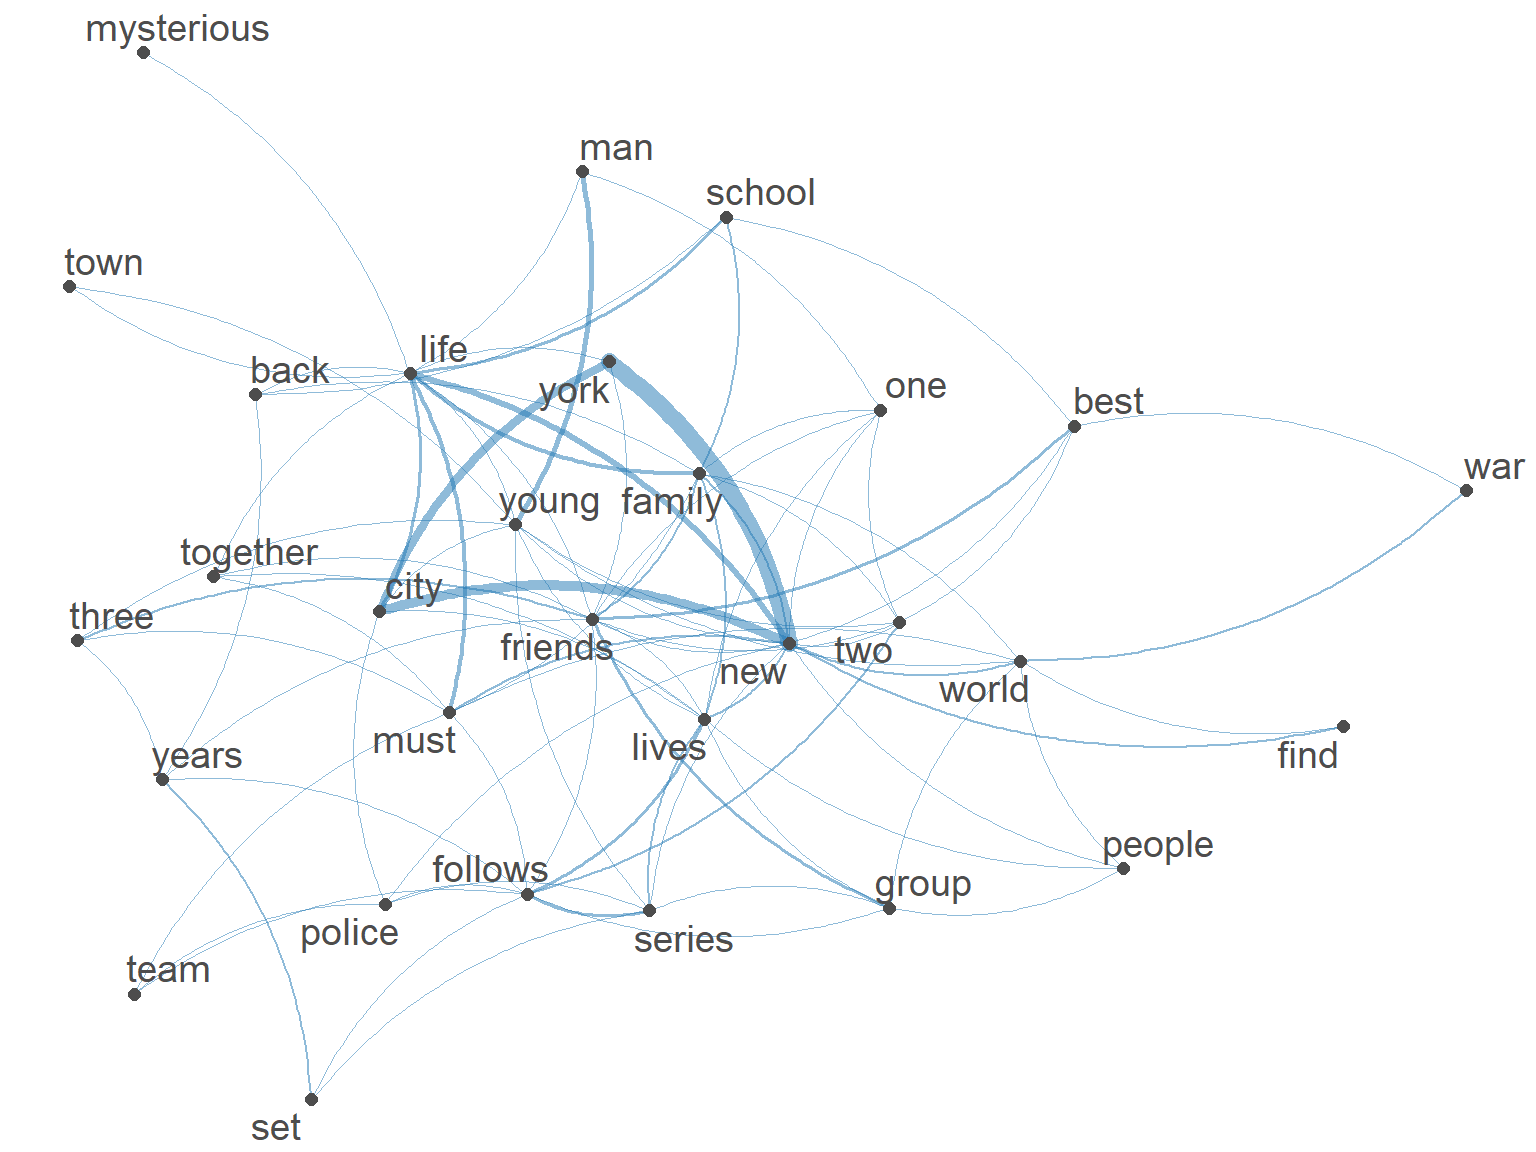
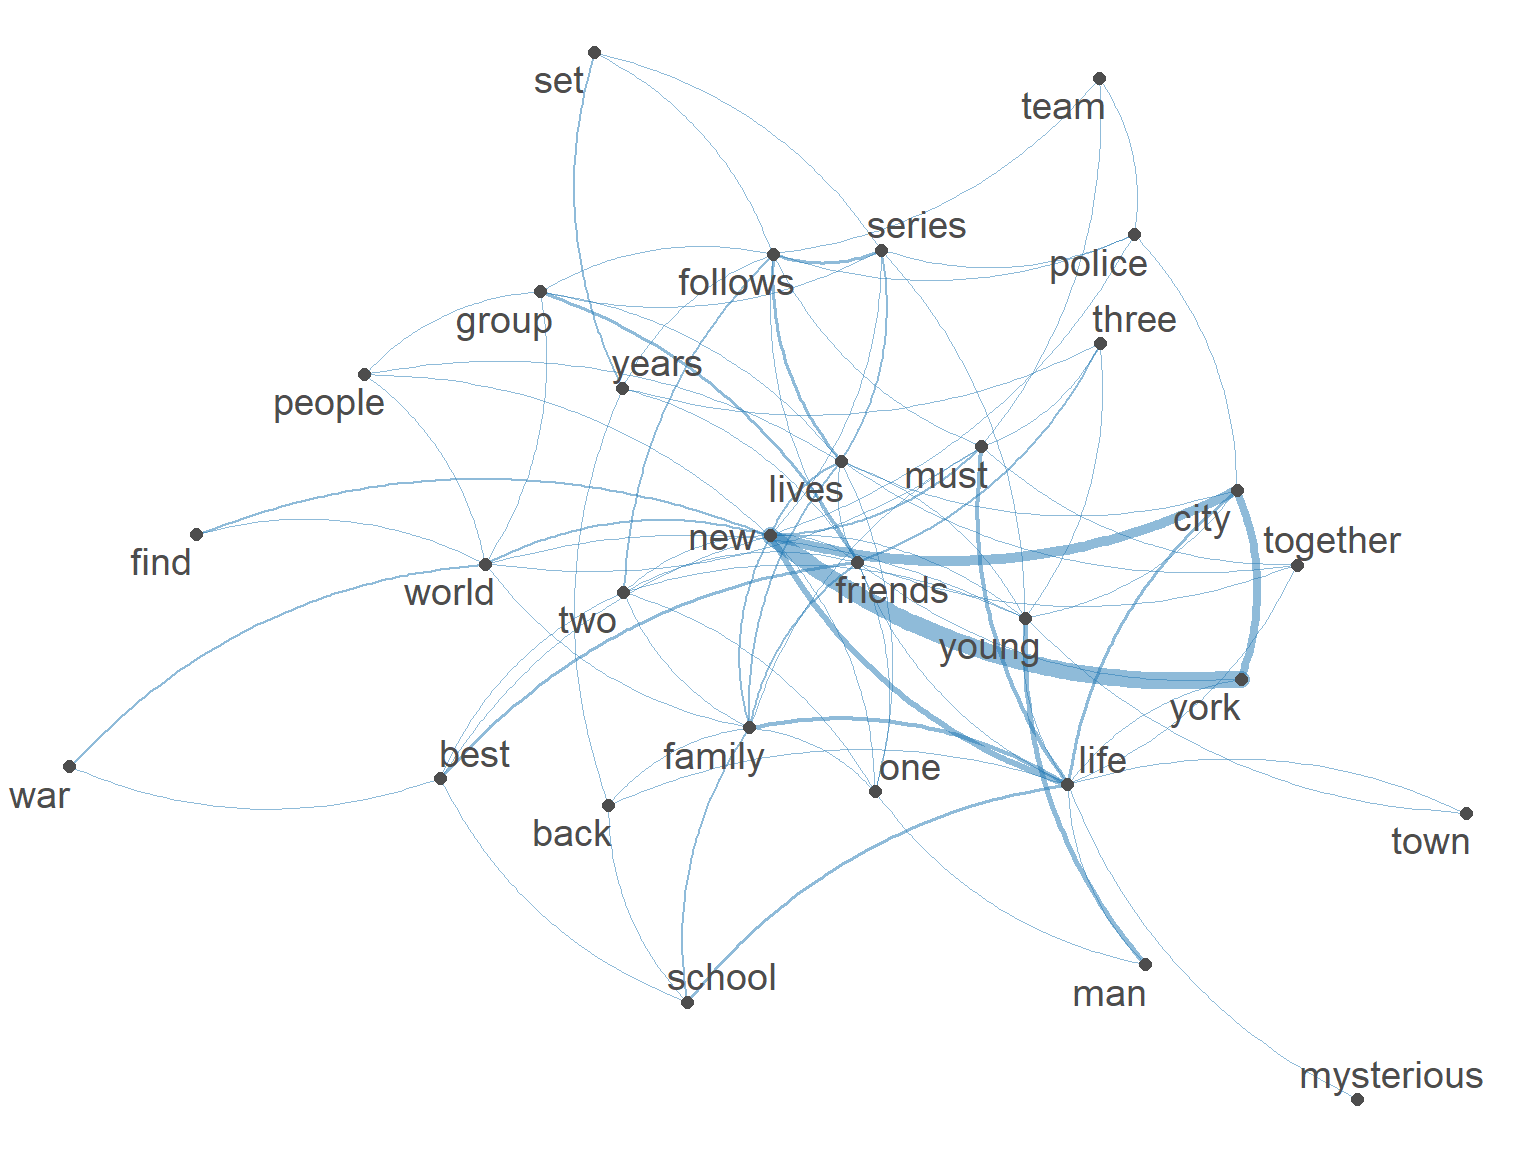
update for PDF rendering

diff --git a/docs/81-glossary.html b/docs/81-glossary.html
@@ -231,23 +231,23 @@ ul.task-list li input[type="checkbox"] {
 
 </header><div class="cell">
 <div class="cell-output-display">
-<div id="zssonuamja" style="padding-left:0px;padding-right:0px;padding-top:10px;padding-bottom:10px;overflow-x:auto;overflow-y:auto;width:auto;height:auto;">
-<style>#zssonuamja table {
+<div id="cuhigvmudm" style="padding-left:0px;padding-right:0px;padding-top:10px;padding-bottom:10px;overflow-x:auto;overflow-y:auto;width:auto;height:auto;">
+<style>#cuhigvmudm table {
   font-family: system-ui, 'Segoe UI', Roboto, Helvetica, Arial, sans-serif, 'Apple Color Emoji', 'Segoe UI Emoji', 'Segoe UI Symbol', 'Noto Color Emoji';
   -webkit-font-smoothing: antialiased;
   -moz-osx-font-smoothing: grayscale;
 }
 
-#zssonuamja thead, #zssonuamja tbody, #zssonuamja tfoot, #zssonuamja tr, #zssonuamja td, #zssonuamja th {
+#cuhigvmudm thead, #cuhigvmudm tbody, #cuhigvmudm tfoot, #cuhigvmudm tr, #cuhigvmudm td, #cuhigvmudm th {
   border-style: none;
 }
 
-#zssonuamja p {
+#cuhigvmudm p {
   margin: 0;
   padding: 0;
 }
 
-#zssonuamja .gt_table {
+#cuhigvmudm .gt_table {
   display: table;
   border-collapse: collapse;
   line-height: normal;
@@ -273,12 +273,12 @@ ul.task-list li input[type="checkbox"] {
   border-left-color: #D3D3D3;
 }
 
-#zssonuamja .gt_caption {
+#cuhigvmudm .gt_caption {
   padding-top: 4px;
   padding-bottom: 4px;
 }
 
-#zssonuamja .gt_title {
+#cuhigvmudm .gt_title {
   color: #333333;
   font-size: 125%;
   font-weight: initial;
@@ -290,7 +290,7 @@ ul.task-list li input[type="checkbox"] {
   border-bottom-width: 0;
 }
 
-#zssonuamja .gt_subtitle {
+#cuhigvmudm .gt_subtitle {
   color: #333333;
   font-size: 85%;
   font-weight: initial;
@@ -302,7 +302,7 @@ ul.task-list li input[type="checkbox"] {
   border-top-width: 0;
 }
 
-#zssonuamja .gt_heading {
+#cuhigvmudm .gt_heading {
   background-color: #FFFFFF;
   text-align: center;
   border-bottom-color: #FFFFFF;
@@ -314,13 +314,13 @@ ul.task-list li input[type="checkbox"] {
   border-right-color: #D3D3D3;
 }
 
-#zssonuamja .gt_bottom_border {
+#cuhigvmudm .gt_bottom_border {
   border-bottom-style: solid;
   border-bottom-width: 2px;
   border-bottom-color: #D3D3D3;
 }
 
-#zssonuamja .gt_col_headings {
+#cuhigvmudm .gt_col_headings {
   border-top-style: solid;
   border-top-width: 2px;
   border-top-color: #D3D3D3;
@@ -335,7 +335,7 @@ ul.task-list li input[type="checkbox"] {
   border-right-color: #D3D3D3;
 }
 
-#zssonuamja .gt_col_heading {
+#cuhigvmudm .gt_col_heading {
   color: #333333;
   background-color: #FFFFFF;
   font-size: 100%;
@@ -355,7 +355,7 @@ ul.task-list li input[type="checkbox"] {
   overflow-x: hidden;
 }
 
-#zssonuamja .gt_column_spanner_outer {
+#cuhigvmudm .gt_column_spanner_outer {
   color: #333333;
   background-color: #FFFFFF;
   font-size: 100%;
@@ -367,15 +367,15 @@ ul.task-list li input[type="checkbox"] {
   padding-right: 4px;
 }
 
-#zssonuamja .gt_column_spanner_outer:first-child {
+#cuhigvmudm .gt_column_spanner_outer:first-child {
   padding-left: 0;
 }
 
-#zssonuamja .gt_column_spanner_outer:last-child {
+#cuhigvmudm .gt_column_spanner_outer:last-child {
   padding-right: 0;
 }
 
-#zssonuamja .gt_column_spanner {
+#cuhigvmudm .gt_column_spanner {
   border-bottom-style: solid;
   border-bottom-width: 2px;
   border-bottom-color: #D3D3D3;
@@ -387,11 +387,11 @@ ul.task-list li input[type="checkbox"] {
   width: 100%;
 }
 
-#zssonuamja .gt_spanner_row {
+#cuhigvmudm .gt_spanner_row {
   border-bottom-style: hidden;
 }
 
-#zssonuamja .gt_group_heading {
+#cuhigvmudm .gt_group_heading {
   padding-top: 8px;
   padding-bottom: 8px;
   padding-left: 5px;
@@ -417,7 +417,7 @@ ul.task-list li input[type="checkbox"] {
   text-align: left;
 }
 
-#zssonuamja .gt_empty_group_heading {
+#cuhigvmudm .gt_empty_group_heading {
   padding: 0.5px;
   color: #333333;
   background-color: #FFFFFF;
@@ -432,15 +432,15 @@ ul.task-list li input[type="checkbox"] {
   vertical-align: middle;
 }
 
-#zssonuamja .gt_from_md > :first-child {
+#cuhigvmudm .gt_from_md > :first-child {
   margin-top: 0;
 }
 
-#zssonuamja .gt_from_md > :last-child {
+#cuhigvmudm .gt_from_md > :last-child {
   margin-bottom: 0;
 }
 
-#zssonuamja .gt_row {
+#cuhigvmudm .gt_row {
   padding-top: 8px;
   padding-bottom: 8px;
   padding-left: 5px;
@@ -459,7 +459,7 @@ ul.task-list li input[type="checkbox"] {
   overflow-x: hidden;
 }
 
-#zssonuamja .gt_stub {
+#cuhigvmudm .gt_stub {
   color: #333333;
   background-color: #FFFFFF;
   font-size: 100%;
@@ -472,7 +472,7 @@ ul.task-list li input[type="checkbox"] {
   padding-right: 5px;
 }
 
-#zssonuamja .gt_stub_row_group {
+#cuhigvmudm .gt_stub_row_group {
   color: #333333;
   background-color: #FFFFFF;
   font-size: 100%;
@@ -486,15 +486,15 @@ ul.task-list li input[type="checkbox"] {
   vertical-align: top;
 }
 
-#zssonuamja .gt_row_group_first td {
+#cuhigvmudm .gt_row_group_first td {
   border-top-width: 2px;
 }
 
-#zssonuamja .gt_row_group_first th {
+#cuhigvmudm .gt_row_group_first th {
   border-top-width: 2px;
 }
 
-#zssonuamja .gt_summary_row {
+#cuhigvmudm .gt_summary_row {
   color: #333333;
   background-color: #FFFFFF;
   text-transform: inherit;
@@ -504,16 +504,16 @@ ul.task-list li input[type="checkbox"] {
   padding-right: 5px;
 }
 
-#zssonuamja .gt_first_summary_row {
+#cuhigvmudm .gt_first_summary_row {
   border-top-style: solid;
   border-top-color: #D3D3D3;
 }
 
-#zssonuamja .gt_first_summary_row.thick {
+#cuhigvmudm .gt_first_summary_row.thick {
   border-top-width: 2px;
 }
 
-#zssonuamja .gt_last_summary_row {
+#cuhigvmudm .gt_last_summary_row {
   padding-top: 8px;
   padding-bottom: 8px;
   padding-left: 5px;
@@ -523,7 +523,7 @@ ul.task-list li input[type="checkbox"] {
   border-bottom-color: #D3D3D3;
 }
 
-#zssonuamja .gt_grand_summary_row {
+#cuhigvmudm .gt_grand_summary_row {
   color: #333333;
   background-color: #FFFFFF;
   text-transform: inherit;
@@ -533,7 +533,7 @@ ul.task-list li input[type="checkbox"] {
   padding-right: 5px;
 }
 
-#zssonuamja .gt_first_grand_summary_row {
+#cuhigvmudm .gt_first_grand_summary_row {
   padding-top: 8px;
   padding-bottom: 8px;
   padding-left: 5px;
@@ -543,7 +543,7 @@ ul.task-list li input[type="checkbox"] {
   border-top-color: #D3D3D3;
 }
 
-#zssonuamja .gt_last_grand_summary_row_top {
+#cuhigvmudm .gt_last_grand_summary_row_top {
   padding-top: 8px;
   padding-bottom: 8px;
   padding-left: 5px;
@@ -553,11 +553,11 @@ ul.task-list li input[type="checkbox"] {
   border-bottom-color: #D3D3D3;
 }
 
-#zssonuamja .gt_striped {
+#cuhigvmudm .gt_striped {
   background-color: rgba(128, 128, 128, 0.05);
 }
 
-#zssonuamja .gt_table_body {
+#cuhigvmudm .gt_table_body {
   border-top-style: solid;
   border-top-width: 1px;
   border-top-color: #E6E6E6;
@@ -566,7 +566,7 @@ ul.task-list li input[type="checkbox"] {
   border-bottom-color: #D3D3D3;
 }
 
-#zssonuamja .gt_footnotes {
+#cuhigvmudm .gt_footnotes {
   color: #333333;
   background-color: #FFFFFF;
   border-bottom-style: none;
@@ -580,7 +580,7 @@ ul.task-list li input[type="checkbox"] {
   border-right-color: #D3D3D3;
 }
 
-#zssonuamja .gt_footnote {
+#cuhigvmudm .gt_footnote {
   margin: 0px;
   font-size: 90%;
   padding-top: 4px;
@@ -589,7 +589,7 @@ ul.task-list li input[type="checkbox"] {
   padding-right: 5px;
 }
 
-#zssonuamja .gt_sourcenotes {
+#cuhigvmudm .gt_sourcenotes {
   color: #333333;
   background-color: #FFFFFF;
   border-bottom-style: none;
@@ -603,7 +603,7 @@ ul.task-list li input[type="checkbox"] {
   border-right-color: #D3D3D3;
 }
 
-#zssonuamja .gt_sourcenote {
+#cuhigvmudm .gt_sourcenote {
   font-size: 90%;
   padding-top: 4px;
   padding-bottom: 4px;
@@ -611,72 +611,72 @@ ul.task-list li input[type="checkbox"] {
   padding-right: 5px;
 }
 
-#zssonuamja .gt_left {
+#cuhigvmudm .gt_left {
   text-align: left;
 }
 
-#zssonuamja .gt_center {
+#cuhigvmudm .gt_center {
   text-align: center;
 }
 
-#zssonuamja .gt_right {
+#cuhigvmudm .gt_right {
   text-align: right;
   font-variant-numeric: tabular-nums;
 }
 
-#zssonuamja .gt_font_normal {
+#cuhigvmudm .gt_font_normal {
   font-weight: normal;
 }
 
-#zssonuamja .gt_font_bold {
+#cuhigvmudm .gt_font_bold {
   font-weight: bold;
 }
 
-#zssonuamja .gt_font_italic {
+#cuhigvmudm .gt_font_italic {
   font-style: italic;
 }
 
-#zssonuamja .gt_super {
+#cuhigvmudm .gt_super {
   font-size: 65%;
 }
 
-#zssonuamja .gt_footnote_marks {
+#cuhigvmudm .gt_footnote_marks {
   font-size: 75%;
   vertical-align: 0.4em;
   position: initial;
 }
 
-#zssonuamja .gt_asterisk {
+#cuhigvmudm .gt_asterisk {
   font-size: 100%;
   vertical-align: 0;
 }
 
-#zssonuamja .gt_indent_1 {
+#cuhigvmudm .gt_indent_1 {
   text-indent: 5px;
 }
 
-#zssonuamja .gt_indent_2 {
+#cuhigvmudm .gt_indent_2 {
   text-indent: 10px;
 }
 
-#zssonuamja .gt_indent_3 {
+#cuhigvmudm .gt_indent_3 {
   text-indent: 15px;
 }
 
-#zssonuamja .gt_indent_4 {
+#cuhigvmudm .gt_indent_4 {
   text-indent: 20px;
 }
 
-#zssonuamja .gt_indent_5 {
+#cuhigvmudm .gt_indent_5 {
   text-indent: 25px;
 }
 
-#zssonuamja .katex-display {
+#cuhigvmudm .katex-display {
   display: inline-flex !important;
   margin-bottom: 0.75em !important;
 }
 
-#zssonuamja div.Reactable > div.rt-table > div.rt-thead > div.rt-tr.rt-tr-group-header > div.rt-th-group:after {
+#cuhigvmudm div.Reactable > div.rt-table > div.rt-thead > div.rt-tr.rt-tr-group-header > div.rt-th-group:after {
   height: 0px !important;
 }
 </style>

diff --git a/docs/9-quality-criteria.html b/docs/9-quality-criteria.html
@@ -401,7 +401,7 @@ window.Quarto = {
 <p>Not necessarily! Human coders also make mistakes and often disagree with each other. Song et al.&nbsp;(2020) show that the quality of the manual coding strongly affects the quality of the validation. They recommend that the gold standard…</p>
 <ul>
 <li>is based on a <strong>random sample</strong> of texts,</li>
-<li>is coded by at least two coders with sufficient <strong>intercoder reliability</strong> (e.g., Krippendorff’s α ≥ .7),</li>
+<li>is coded by at least two coders with sufficient <strong>intercoder reliability</strong> (e.g., Krippendorff’s <span class="math inline">\(\alpha \geq .7\)</span>),</li>
 <li>is <strong>large enough</strong> (in their simulation, more than 1,300 texts, i.e., more than 1% of all texts).</li>
 </ul>
 <p>In this tutorial, we only code 20 series - for practical reasons. Keep in mind that results based on such small samples are very uncertain.</p>
